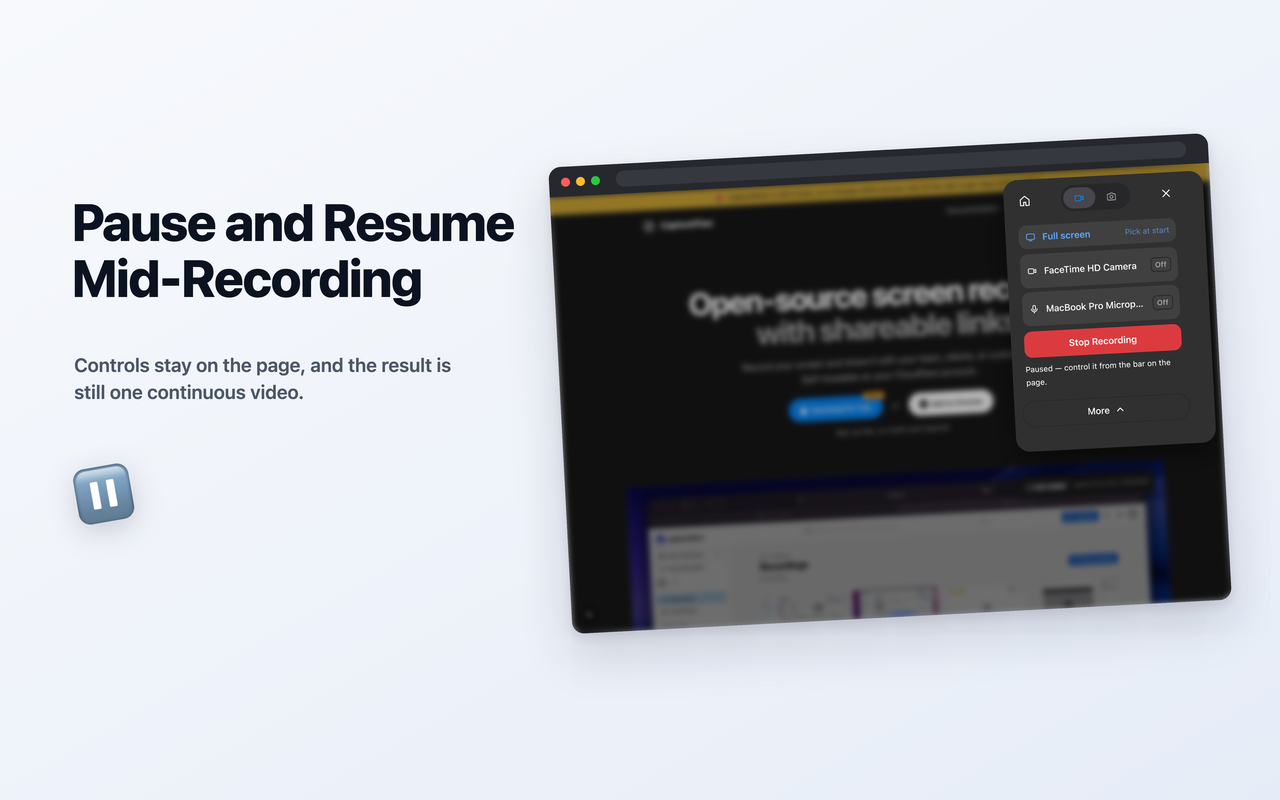
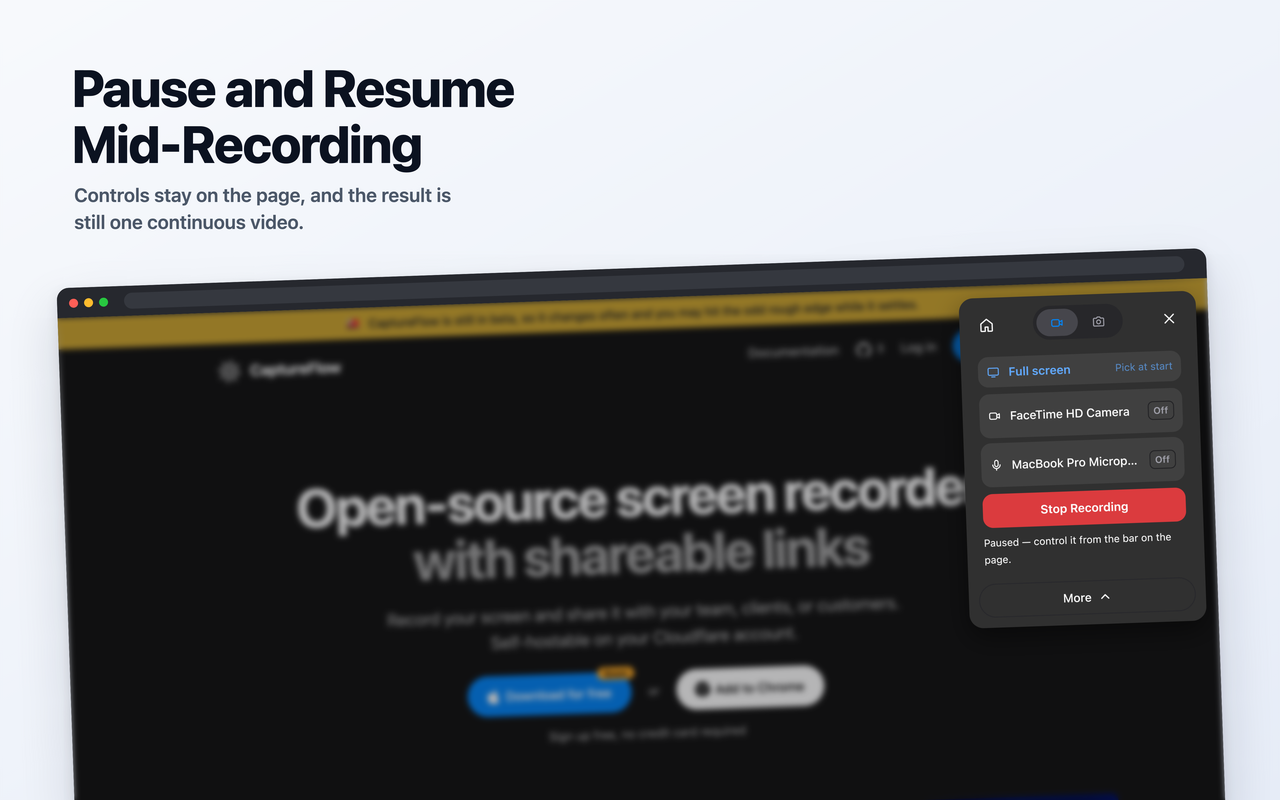
fix(extension): even the panel's inset and draw it at true scale
The capture box was the union of the tab root's descendants, and something in
there runs wider than the card paints, so every grab carried 12px of inset on
the left and 37px on the right. Trimmed to content plus one even inset, which
also settles the card's real width at 280.

The panel was also drawn 1.35x its share of the window to stay readable. It is
exact now, and the window carries the legibility instead: it runs wide and
bleeds off the bottom with the copy stacked above it.

diff --git a/scripts/gen-store-assets.py b/scripts/gen-store-assets.py
@@ -36,10 +36,10 @@ ICON = REPO / "apps/extension/store/store-icon-128.png"
 
 PAGE = SHOTS / "page-landing.png"
 PAGE_W, PAGE_H = 1360, 900
-# The panel is 305 CSS px on a 1360 page. Held a little above that share so the
-# device names stay readable once the window is scaled into a tile.
-PANEL_W = 305
-PANEL_GAIN = 1.35
+# The card is 280 CSS px against a 1360 page, drawn at exactly that share of the
+# window. Keeping it readable is the window's job, not a scale-up here.
+PANEL_W = 280
+PANEL_GAIN = 1.0
 
 
 def uri(p: pathlib.Path) -> str:
@@ -167,47 +167,41 @@ def screenshots() -> list:
             "title": "Record Your Screen<br>in One Click",
             "sub": "A tab, a window, or your whole screen, with camera and mic, "
             "without leaving the page.",
-            "title_at": (72, 206),
-            "sub_at": (74, 348),
-            "scene": (PV, 560, 150, 660, -3),
-            "emoji": [("🎬", 76, 468, 56, -10)],
+            "title_at": (72, 60),
+            "sub_at": (74, 182),
+            "scene": (PV, 70, 268, 1150, -2),
         },
         {
             "title": "Your Link Is Ready<br>When You Stop",
             "sub": "It uploads while you record, so the share URL is on your "
             "clipboard when you hit stop.",
-            "title_at": (72, 194),
-            "sub_at": (74, 352),
-            "scene": (PD, 560, 150, 660, -3),
-            "emoji": [("🔗", 76, 468, 56, -10)],
+            "title_at": (72, 60),
+            "sub_at": (74, 182),
+            "scene": (PD, 70, 268, 1150, -2),
         },
         {
             "title": "Pause and Resume<br>Mid-Recording",
             "sub": "Controls stay on the page, and the result is still one "
             "continuous video.",
-            "title_at": (72, 194),
-            "sub_at": (74, 352),
-            "scene": (PP, 560, 150, 660, -3),
-            "emoji": [("⏸", 76, 468, 56, -10)],
+            "title_at": (72, 60),
+            "sub_at": (74, 182),
+            "scene": (PP, 70, 268, 1150, -2),
         },
         {
             "title": "Screenshots Share<br>the Same Way",
             "sub": "Grab the current tab in one click and send a hosted link "
             "instead of an attachment.",
-            "title_at": (72, 206),
-            "sub_at": (74, 348),
-            "scene": (PS, 560, 150, 660, -3),
-            "emoji": [("📸", 76, 468, 56, -10)],
+            "title_at": (72, 60),
+            "sub_at": (74, 182),
+            "scene": (PS, 70, 268, 1150, -2),
         },
         {
             "title": "Open Source.<br>Host It Yourself",
             "sub": "AGPL-3.0, and every feature ships in that build. Run the "
             "whole stack on your own Cloudflare account.",
-            "title_at": (72, 206),
-            "sub_at": (74, 348),
-            "sub_w": 410,
-            "scene": (PV, 560, 150, 660, -3),
-            "images": [{"src": uri(ICON), "x": 76, "y": 462, "w": 72}],
+            "title_at": (72, 60),
+            "sub_at": (74, 182),
+                        "scene": (PV, 70, 268, 1150, -2),
         },
     ]
 
@@ -230,16 +224,15 @@ def small_tile() -> dict:
 def marquee() -> dict:
     return {
         "title": "Record Your Screen.<br>Send a Link.",
-        "title_size": 56,
-        "title_at": (84, 156),
-        "title_w": 600,
+        "title_size": 42,
+        "title_at": (60, 150),
+        "title_w": 400,
         "sub": "Open-source screen recorder and screenshot tool for Chrome. "
         "No exporting, no attachments.",
-        "sub_size": 21,
-        "sub_at": (86, 348),
-        "sub_w": 470,
-        "scene": (PV, 748, 34, 620, -3),
-        "emoji": [("⚡", 620, 402, 46, 10)],
+        "sub_size": 17,
+        "sub_at": (62, 292),
+        "sub_w": 366,
+        "scene": (PV, 470, 60, 900, -3),
     }
 
 
